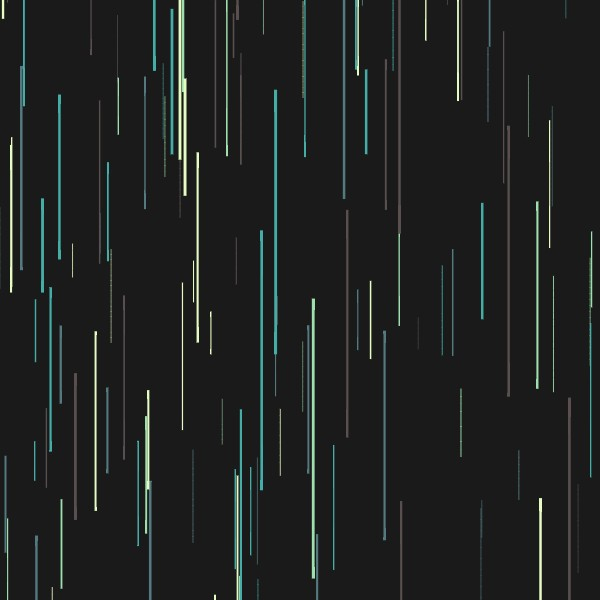
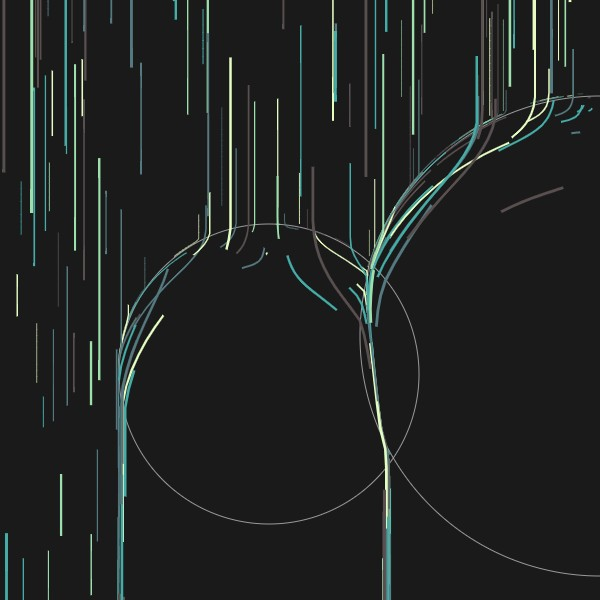
065_lines_rain add circles

diff --git a/src/065_lines_rain.js b/src/065_lines_rain.js
@@ -10,7 +10,7 @@ const settings = {
     animate: true,
 };
 
-const sketch = async ({ width, height }) => {
+const sketch = async ({ canvas, width, height }) => {
     const lines = new Collection();
     const palette = ['#594f4f', '#547980', '#45ada8', '#9de0ad', '#e5fcc2'];
 
@@ -20,7 +20,38 @@ const sketch = async ({ width, height }) => {
 
     const fromY = -height;
     const toY = 0;
-    const maxLines = 500;
+    const maxLines = 1000;
+
+    const circle = {
+        x: width / 2,
+        y: height / 2,
+        r: 150,
+    };
+    const circles = [];
+
+    canvas.addEventListener('mousemove', e => {
+        const rect = e.target.getBoundingClientRect();
+        const kX = rect.width / width;
+        const kY = rect.height / height;
+        circle.x = Math.floor((e.clientX - rect.left) / kX);
+        circle.y = Math.floor((e.clientY - rect.top) / kY);
+    });
+
+    canvas.addEventListener('mouseleave', e => {
+        circle.x = -9000;
+        circle.y = 0;
+    });
+    canvas.addEventListener('mousewheel', ({deltaY}) => {
+        if (deltaY > 0) {
+            circle.r = Math.max(circle.r - 10, 20);
+        } else if (deltaY < 0) {
+            circle.r = Math.min(circle.r + 10, width / 2);
+        }
+    });
+
+    canvas.addEventListener('click', e => {
+        circles.push({ ...circle });
+    });
 
     const cleanLines = () => {
         for (const line of lines) {
@@ -42,8 +73,20 @@ const sketch = async ({ width, height }) => {
     };
 
     const rampUpLine = line => {
-        const x = line.points[line.points.length - 1].x;
-        const y = line.points[line.points.length - 1].y + line.speed;
+        let x = line.points[line.points.length - 1].x;
+        let y = line.points[line.points.length - 1].y + line.speed;
+
+        // Check is in circle
+        const allCircles = [...circles, circle];
+        for (const circle of allCircles) {
+            const distance = Math.sqrt((x - circle.x) ** 2 + (y - circle.y) ** 2);
+            const distanceDiff = distance - circle.r;
+            if (distanceDiff < 0) {
+                const angle = Math.atan2(y - circle.y, x - circle.x); // radians
+                x += Math.cos(angle) * Math.abs(Math.sqrt(Math.abs(distanceDiff * (circle.r / 4 / line.speed))));
+                y += Math.sin(angle) * Math.abs(Math.sqrt(Math.abs(distanceDiff * (circle.r / 4 / line.speed))));
+            }
+        }
 
         line.points.push({ x, y });
         if (line.points.length > line.size) {
@@ -67,6 +110,13 @@ const sketch = async ({ width, height }) => {
     return ({ context, width, height, time }) => {
         context.fillStyle = 'hsl(0, 0%, 10%)';
         context.fillRect(0, 0, width, height);
+
+        [...circles, circle].forEach(circle => {
+            context.strokeStyle = '#999';
+            context.beginPath();
+            context.arc(circle.x, circle.y, circle.r, 0, Math.PI * 2, false);
+            context.stroke();
+        });
 
         for (const line of lines) {
             const lineCoords = line.points.map(p => [p.x, p.y]);
